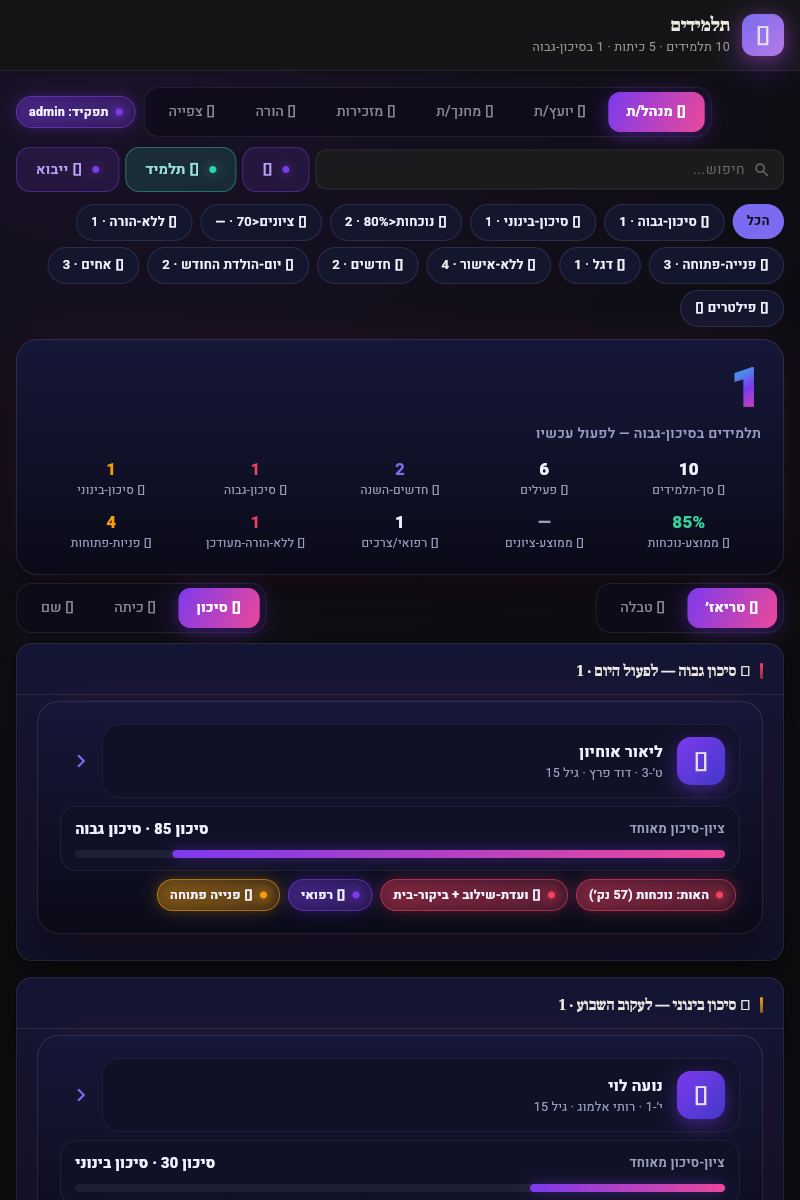
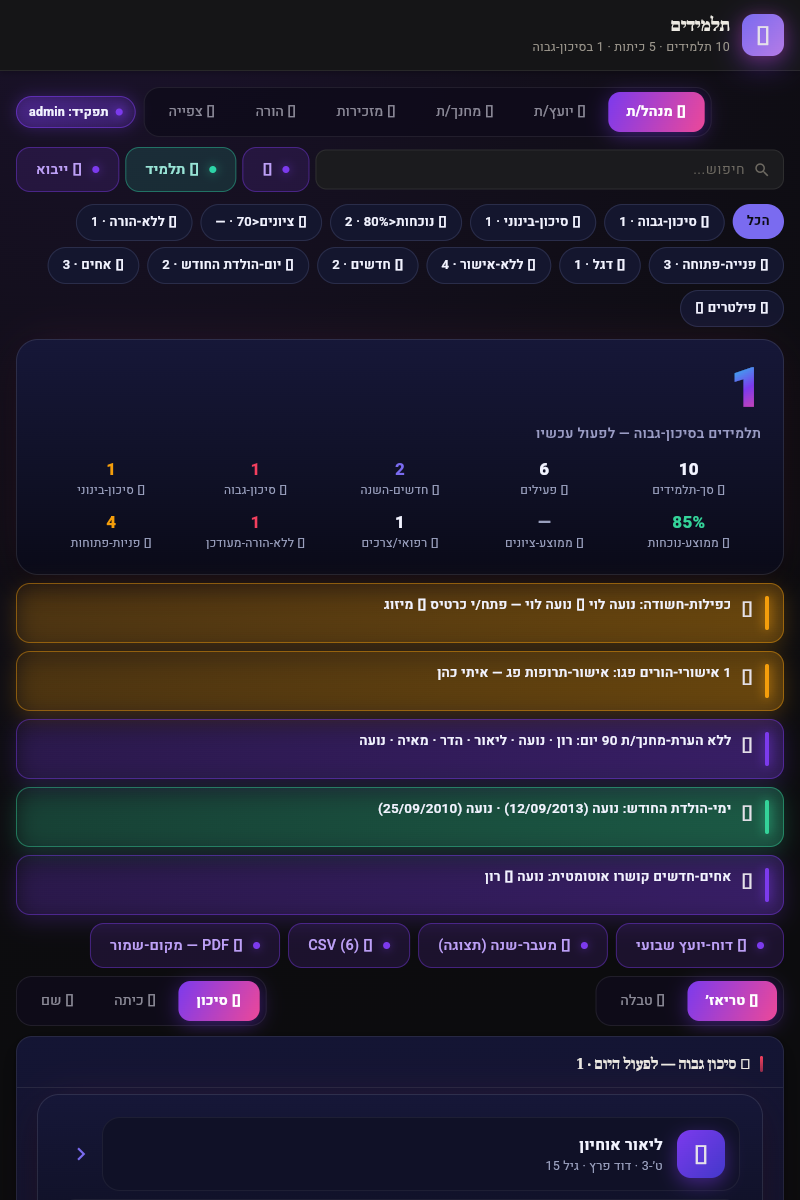
גל 6 · תלמידים · 11 אוטומציות-חכמות + אינטגרציות + ייצוא (23-ג) — AlertBanner⊕NeonBars⊕BareStat · findDuplicateGroups⊕mergeFamilies⊕cockpitAtRisk⊕supScoreBins⊕taskOverdue⊕toCsv⊕csvEscape⊕exportAllowed
קפיצת-סיכון (אותו מנוע על דאטה-עד-cutoff, ≥15) · זיהוי-כפולים (שם+לידה · טלפון-ילד) + מיזוג · אישורים-פגים · ללא-הערת-מחנך 90 יום
(cockpitAtRisk ∪ ללא-הערה-מתוארכת) · ימי-הולדת · אחים-חדשים⇒קישור-אוטו · השוואת-שכבה (percentile + 10 דליים) · דוח-יועץ שבועי ·
מעבר-שנה (תצוגה) · CSV (BOM+חסימת-הזרקה, הרשאה) · PDF=מקום-שמור · גבייה⇒דגל-חוב=מקום-שמור. באג-אמת מבדיקת-widget: רשימות-seed
הוסקו כ-Map<String,Object> ⇒ TypeError במיזוג — טיפוס מפורש.

Claude-Session: https://claude.ai/code/session_01TxEB6UJGSPpcuzhChbuNDK

Protocol-Ran: de728b952c17193c

diff --git a/new/dart-gen-bs/schoolos_students.dart b/new/dart-gen-bs/schoolos_students.dart
@@ -56,6 +56,14 @@ import '../dart-maor/num-match.dart'; // סף-מספרי ('0-79' · '80+') (מד
 import '../dart-maor/norm-phone.dart'; // נרמול-טלפון לחיפוש-הורה
 import '../dart-maor/role-of.dart'; // הרשאות: תפקיד-לפי-מייל admin/teacher/staff (מדף)
 import '../dart-maor/can-granted-action.dart'; // הרשאות: גידור-פעולה פר-מפתח (מדף)
+import '../dart-maor/find-duplicate-groups.dart'; // אוטומציה: זיהוי-כפולים (union-find על טלפון/מפתח-שם)
+import '../dart-maor/merge-families.dart'; // פעולה: מיזוג-כפולים (keeper⊕losers ⇒ רשומה ממוזגת)
+import '../dart-maor/norm-name.dart'; // מפתח-שם מנורמל לכפולים
+import '../dart-maor/cockpit-at-risk.dart'; // אוטומציה: "שקטים" N ימים (ללא הערת-מחנך 90 יום)
+import '../dart-maor/sup-score-bins.dart'; // השוואת-שכבה: התפלגות-ציונים ל-10 דליים (percentile)
+import '../dart-maor/to-csv.dart'; // ייצוא: שורות⇒CSV+BOM (מדף)
+import '../dart-maor/csv-escape.dart'; // ייצוא: הגנת-תא (חוסם CSV-injection) (מדף)
+import '../dart-maor/export-allowed.dart'; // ייצוא: שער-יציאת-מידע (מדף)
 
 const _acc = DsTokens.accent;
 // פיגמנטים מוזרקים לאטומי-מדף טהורים (חוק-6: צבע=הצבה, לא ציור)
@@ -88,14 +96,14 @@ class _StuData {
       [for (final d in days) {'date': '$ym-${d.toString().padLeft(2, '0')}', 'reason': reason, 'justified': justified, 'noshow': noshow}];
 
   static Map<String, dynamic> seed() => {
-        'teachers': [
+        'teachers': <Map<String, dynamic>>[
           {'id': 't1', 'name': 'רותי אלמוג', 'phone': '0521110001', 'email': 'ruti@school'},
           {'id': 't2', 'name': 'דוד פרץ', 'phone': '0521110002', 'email': 'david@school'},
           {'id': 't3', 'name': 'מיכל שרון', 'phone': '0521110003', 'email': 'michal@school'},
           {'id': 't4', 'name': 'יוסי כהן', 'phone': '0521110004', 'email': 'yossi@school'},
         ],
         // כיתת-חינוך = Course (teacherId · year · start/end · gradeMin/Max) — מקור: Course
-        'courses': [
+        'courses': <Map<String, dynamic>>[
           {'id': 'c-i1', 'name': 'י׳-1 · כיתת-חינוך', 'teacherId': 't1', 'start': '2026-09-01', 'end': '2027-06-20', 'year': '2026/27', 'gradeMin': 'י', 'gradeMax': 'י', 'cat': 'חינוך'},
           {'id': 'c-i2', 'name': 'י׳-2 · כיתת-חינוך', 'teacherId': 't4', 'start': '2026-09-01', 'end': '2027-06-20', 'year': '2026/27', 'gradeMin': 'י', 'gradeMax': 'י', 'cat': 'חינוך'},
           {'id': 'c-t3', 'name': 'ט׳-3 · כיתת-חינוך', 'teacherId': 't2', 'start': '2026-09-01', 'end': '2027-06-20', 'year': '2026/27', 'gradeMin': 'ט', 'gradeMax': 'ט', 'cat': 'חינוך'},
@@ -106,7 +114,7 @@ class _StuData {
           {'id': 'c-robot', 'name': 'חוג רובוטיקה', 'teacherId': 't2', 'start': '2026-09-01', 'end': '2027-06-20', 'year': '2026/27', 'cat': 'חוג'},
         ],
         // משפחה = Family (schema-fields) · ילד = Member. שדות-אמת בלבד.
-        'families': [
+        'families': <Map<String, dynamic>>[
           {'id': 'f1', 'name': 'שמעוני', 'father': 'אבי', 'mother': 'דנה', 'phone': '0528811223', 'phone2': '0528811224', 'email': '', 'city': 'חולון', 'address': 'הבנים 12', 'language': 'עברית', 'maritalStatus': 'נשואים', 'status': 'active', 'tzedaka': '', 'discount': '', 'notes': '', 'createdAt': '2024-08-20',
             'docs': [{'id': 'd1', 'name': 'טופס-רישום-2024.pdf', 'addedAt': '2024-08-20'}, {'id': 'd2', 'name': 'אישור-מדיה-חתום.pdf', 'addedAt': '2025-09-02'}], 'cred': {'score': 0, 'log': []},
             'members': [
@@ -152,7 +160,7 @@ class _StuData {
             ]},
         ],
         // רישום = Enrollment: memberId · courseId · status(active/paused/ended/wait) · presents[] · absences[] · enrolledAt · endedAt · renewedToId
-        'enrollments': [
+        'enrollments': <Map<String, dynamic>>[
           {'id': 'e1', 'memberId': 'm1', 'courseId': 'c-i1', 'status': 'active', 'enrolledAt': '2025-09-01', 'group': '', 'note': '',
             'presents': [..._d('2026-05', [3, 4, 5, 6, 10, 11, 12, 13, 17, 18, 19, 20, 24, 25, 26, 27, 31]), ..._d('2026-06', [1, 2, 3, 7, 8, 9, 10, 14, 15, 16, 17, 21, 22, 23]), ..._d('2026-09', [1, 2])],
             'absences': [..._abs('2026-06', [4, 18, 24], reason: 'ללא-סיבה'), ..._abs('2026-09', [3], noshow: true)]},
@@ -186,7 +194,7 @@ class _StuData {
             'presents': [..._d('2026-05', [3, 4, 5, 6, 10, 11, 12, 13, 17, 18, 19, 20, 24, 25, 26, 27, 31]), ..._d('2026-06', [1, 2, 3, 7, 8, 9, 10, 14, 15, 16, 17, 21, 22, 23])], 'absences': [..._abs('2026-06', [4, 18, 24])]},
         ],
         // פניות/משימות = WorkTask: assignee · by · title · ref{kind,id} · pri · due · createdAt · doneAt · note
-        'tasks': [
+        'tasks': <Map<String, dynamic>>[
           {'id': 'k1', 'assignee': 'counselor@school', 'by': 'ruti@school', 'title': 'פנייה ליועצת: ליאור אוחיון — היעדרויות', 'ref': {'kind': 'family', 'id': 'f2', 'memberId': 'm3'}, 'pri': 1, 'due': '2026-09-01', 'createdAt': '2026-06-20', 'doneAt': '', 'note': 'לא נוצר קשר עם הבית'},
           {'id': 'k2', 'assignee': 'office@school', 'by': 'ruti@school', 'title': 'אישור-טיולים פג — רון שמעוני', 'ref': {'kind': 'family', 'id': 'f1', 'memberId': 'm1', 'consent': 'trips'}, 'pri': 2, 'due': '2026-09-10', 'createdAt': '2026-08-20', 'doneAt': '', 'note': ''},
           {'id': 'k3', 'assignee': 'office@school', 'by': 'michal@school', 'title': 'אישור-תרופות פג — איתי כהן', 'ref': {'kind': 'family', 'id': 'f8', 'memberId': 'm10', 'consent': 'meds'}, 'pri': 1, 'due': '2026-08-30', 'createdAt': '2026-08-01', 'doneAt': '', 'note': ''},
@@ -194,14 +202,14 @@ class _StuData {
           {'id': 'k5', 'assignee': 'counselor@school', 'by': 'michal@school', 'title': 'פנייה ליועצת: הדר נחום — אין קשר עם ההורים', 'ref': {'kind': 'family', 'id': 'f3', 'memberId': 'm4'}, 'pri': 2, 'due': '2026-06-30', 'createdAt': '2026-06-10', 'doneAt': '2026-06-28', 'note': 'נסגר — הושג קשר דרך הסבתא'},
         ],
         // אירועים = OrgEvent (famId · date · title · type · done) — ציר-זמן-תלמיד
-        'events': [
+        'events': <Map<String, dynamic>>[
           {'id': 'v1', 'title': 'שיחת-מחנכת עם ההורים', 'date': '2026-06-22', 'time': '17:00', 'type': 'meeting', 'famId': 'f2', 'priority': 'high', 'done': true},
           {'id': 'v2', 'title': 'ועדת-שילוב', 'date': '2026-09-09', 'time': '13:00', 'type': 'meeting', 'famId': 'f2', 'priority': 'high', 'done': false},
           {'id': 'v3', 'title': 'שיחת-הכרות משפחה חדשה', 'date': '2026-09-08', 'time': '16:30', 'type': 'meeting', 'famId': 'f5', 'priority': 'normal', 'done': false},
           {'id': 'v4', 'title': 'יום-הורים', 'date': '2026-06-15', 'time': '18:00', 'type': 'meeting', 'famId': 'f1', 'priority': 'normal', 'done': true},
         ],
         // אודיט = AuditEntry {at, who, act, what} — טבעת-אודיט (pullAuditRing/pushAuditRing = תפר-ההתמדה, כאן בזיכרון)
-        'audit': [
+        'audit': <Map<String, dynamic>>[
           {'at': '2026-09-01T08:10', 'who': 'office@school', 'act': 'update', 'what': 'm7 · רישום לכיתה י׳-1'},
           {'at': '2026-09-02T09:30', 'who': 'office@school', 'act': 'import', 'what': 'f6 · ייבוא-CSV (3 שורות)'},
           {'at': '2026-08-31T12:00', 'who': 'ruti@school', 'act': 'note', 'what': 'm1 · הערת-מחנכת'},
@@ -277,10 +285,10 @@ class _StuData {
   // ─── נוכחות (מקור: Enrollment.presents/absences ⊕ enrollSummary מהמדף) ───
   static const _enrollT = {'k1': 'פעיל', 'k2': 'מוקפא', 'k3': 'הסתיים', 'k4': 'המתנה'};
   static Map<String, dynamic> summary(Map<String, dynamic> e) => enrollSummary(e, (e) => 0, (e) => 0, _enrollT); // payBal/paidOf = שקעים לא-רלוונטיים (0)
-  static List<String> presentsOf(Map<String, dynamic> s) => [for (final e in enrollmentsOf(s)) ...((e['presents'] as List?) ?? const []).cast<String>()];
-  static List<Map<String, dynamic>> absencesOf(Map<String, dynamic> s) => [for (final e in enrollmentsOf(s)) ...((e['absences'] as List?) ?? const []).cast<Map<String, dynamic>>()];
-  static int presents(Map<String, dynamic> s) => grandTotal(enrollmentsOf(s), (e) => summary(e as Map<String, dynamic>)['presents'] as int).toInt();
-  static int absences(Map<String, dynamic> s) => grandTotal(enrollmentsOf(s), (e) => summary(e as Map<String, dynamic>)['absences'] as int).toInt();
+  static List<String> presentsOf(Map<String, dynamic> s) => [for (final e in enrollmentsOf(s)) for (final d in ((e['presents'] as List?) ?? const []).cast<String>()) if (_cutoff.isEmpty || d.compareTo(_cutoff) <= 0) d];
+  static List<Map<String, dynamic>> absencesOf(Map<String, dynamic> s) => [for (final e in enrollmentsOf(s)) for (final a in ((e['absences'] as List?) ?? const []).cast<Map<String, dynamic>>()) if (_cutoff.isEmpty || '${a['date']}'.compareTo(_cutoff) <= 0) a];
+  static int presents(Map<String, dynamic> s) => _cutoff.isEmpty ? grandTotal(enrollmentsOf(s), (e) => summary(e as Map<String, dynamic>)['presents'] as int).toInt() : presentsOf(s).length;
+  static int absences(Map<String, dynamic> s) => _cutoff.isEmpty ? grandTotal(enrollmentsOf(s), (e) => summary(e as Map<String, dynamic>)['absences'] as int).toInt() : absencesOf(s).length;
   static int noshow(Map<String, dynamic> s) => grandTotal(enrollmentsOf(s), (e) => summary(e as Map<String, dynamic>)['noshow'] as int).toInt();
   static double? attendance(Map<String, dynamic> s) { // יחס-נוכחות 0..1 (null = אין נתון)
     final p = presents(s), a = absences(s);
@@ -718,6 +726,75 @@ class _StuData {
   }
   static const encryptionNote = 'הצפנה-במנוחה = תפר-ההתמדה (encryptDoc/isEncrypted/pushAuditRing) — מקום-שמור: מאיר כשמחברים אחסון';
 
+  // ═══ אוטומציות-חכמות (הכרעה 23-ג · פרואקטיבי): המערכת מתריעה לפני שדבר נשמט — כולן מנועי-מדף/שדות-אמת ═══
+  // 1. קפיצת-סיכון: ציון-היום מול ציון-לפני-30-יום (אותו מנוע על תת-הדאטה עד cutoff) — הפרש ≥15 = התרעה
+  static String _cutoff = '';
+  static int riskAt(Map<String, dynamic> s, String cutoffIso) {
+    _cutoff = cutoffIso;
+    try { return risk(s); } finally { _cutoff = ''; }
+  }
+  static List<Map<String, dynamic>> get riskJumps => [
+        for (final s in active) if (risk(s) - riskAt(s, monthAgo) >= 15) {'s': s, 'now': risk(s), 'prev': riskAt(s, monthAgo)},
+      ];
+  static String get monthAgo => '${today.substring(0, 4)}-${(int.parse(today.substring(5, 7)) - 1).clamp(1, 12).toString().padLeft(2, '0')}-${today.substring(8)}';
+  // 2. זיהוי-כפולים (findDuplicateGroups): מפתח-שם = שם-פרטי+משפחה+לידה מנורמל · טלפון-ילד/ה (טלפון-משפחה משותף לאחים ⇒ לא ציר)
+  static List<List<String>> get duplicateGroups => findDuplicateGroups(
+        students, (s) => [if ('${s['phone'] ?? ''}'.isNotEmpty) normPhone(s['phone'] as String)],
+        (s) => '${normName(s['name'], norm)}|${s['birth'] ?? ''}'.replaceAll(RegExp(r'\|$'), '') == normName(s['name'], norm) ? '' : '${normName(s['name'], norm)}|${s['birth']}');
+  static bool isDupSuspect(Map<String, dynamic> s) => duplicateGroups.any((g) => g.length > 1 && g.contains(s['id']));
+  static List<Map<String, dynamic>> dupPeers(Map<String, dynamic> s) => [for (final g in duplicateGroups) if (g.contains(s['id'])) for (final id in g) if (id != s['id']) byId(id)!];
+  // מיזוג: mergeFamilies(keeper, losers) ⇒ רשומת-משפחה ממוזגת מחליפה את keeper; losers מוסרים; רישומי-ה-loser מועברים ל-keeper-member
+  static void mergeDuplicate(Map<String, dynamic> keep, Map<String, dynamic> lose, String who) {
+    final fk = fam(keep), fl = fam(lose);
+    if (fk['id'] != fl['id']) {
+      final merged = mergeFamilies(fk, [fl], (p) => normPhone(p), (xs) { final seen = <dynamic>{}; return [for (final x in xs) if (seen.add((x as Map)['id'])) x]; }, term: (k) => k == 'mvzg' ? 'מוזג: ' : k);
+      merged['members'] = [for (final m in (merged['members'] as List)) if ((m as Map)['id'] != lose['id']) m]; // הכפיל עצמו לא נשמר
+      final fams = db['families'] as List;
+      fams[fams.indexOf(fk)] = merged; fams.remove(fl);
+    } else { (fk['members'] as List).removeWhere((m) => (m as Map)['id'] == lose['id']); }
+    for (final e in (db['enrollments'] as List).cast<Map<String, dynamic>>()) { if (e['memberId'] == lose['id']) e['memberId'] = keep['id']; }
+    _cache = null;
+    log(who, 'merge', '${keep['id']} · מוזג ${lose['id']} (${lose['name']})');
+  }
+  // 3. ימי-הולדת החודש · 4. אישורים-פגים (taskOverdue על משימות-אישור) · 5. אחים-חדשים⇒קישור-אוטו (Family.members) · 6. ללא-הערת-מחנך 90 יום
+  static List<Map<String, dynamic>> get birthdays => active.where(birthdayThisMonth).toList();
+  static List<Map<String, dynamic>> get expiredConsents => [for (final t in tasks()) if ((t['ref'] as Map?)?['consent'] != null && '${t['doneAt'] ?? ''}'.isEmpty && taskOverdue(t, today)) t];
+  static List<Map<String, dynamic>> get newSiblings => [for (final s in active) if (isNew(s) && siblings(s).isNotEmpty) s]; // חדש/ה עם אחים במוסד ⇒ הקישור כבר אוטומטי (אותה Family)
+  static const noteSilentDays = 90;
+  static List<Map<String, dynamic>> get noNote90 { // cockpitAtRisk (שקטים ≥N ימים מהערה-אחרונה) ∪ תלמידים בלי שום הערה מתוארכת
+    final dated = active.where((s) => lastNoteDate(s) != null).toList();
+    final silent = cockpitAtRisk(dated, today, noteSilentDays, (m) => notes(m.cast<String, dynamic>()).length, (m) => lastNoteDate(m.cast<String, dynamic>()) ?? '', (iso, t) => cockpitDaysSince(iso, t)).cast<Map<String, dynamic>>();
+    return [...silent, ...active.where((s) => lastNoteDate(s) == null)];
+  }
+  // 7. השוואת-שכבה (percentile): התפלגות-סיכון בשכבה ל-10 דליים (supScoreBins · ציון×10 ⇒ דלי=עשירייה) + אחוזון = חלק-הנמוכים-ממני
+  static List<Map<String, dynamic>> cohort(Map<String, dynamic> s) => active.where((o) => o['grade'] == s['grade']).toList();
+  static List<int> cohortBins(Map<String, dynamic> s) => supScoreBins(cohort(s), supScore: (o, _) => risk(o as Map<String, dynamic>) * 10);
+  static int percentile(Map<String, dynamic> s) { final c = cohort(s); if (c.length < 2) return 50; final me = risk(s); return (c.where((o) => risk(o) < me).length * 100 / (c.length - 1)).round().clamp(0, 100); }
+  // 8. דוח-יועץ שבועי (טקסט מהאותות): סיכון-גבוה · קפיצות · פניות-פתוחות · ללא-הורה · אישורים-פגים
+  static String weeklyReport() => [
+        'דוח-יועץ/ת שבועי · ${fmt(today)}', 'תלמידים פעילים: ${active.length} · סיכון-גבוה: $highN · בינוני: $midN',
+        'קפיצות-סיכון (30 יום): ${riskJumps.map((j) => '${(j['s'] as Map)['name']} ${j['prev']}→${j['now']}').join(', ')}'.replaceAll(': ,', ': —'),
+        'פניות-פתוחות: $openTicketsN · ללא-הורה-מעודכן: $noParentN · אישורים-פגים: ${expiredConsents.length}',
+        'ללא-הערת-מחנך/ת $noteSilentDays יום: ${noNote90.map((s) => s['name']).join(', ')}',
+        'כפילויות-חשודות: ${duplicateGroups.where((g) => g.length > 1).length}', 'ימי-הולדת החודש: ${birthdays.map((s) => s['first']).join(', ')}',
+        '', 'פעולות מומלצות:', for (final s in active.where((s) => band(s) > 0)) '· ${s['name']} (${risk(s)}): ${action(s)}',
+      ].join('\n');
+  // 9. מעבר-שנה (העברת-כיתות מרוכזת): כל תלמיד/ה פעיל/ה ⇒ כיתת-השכבה-הבאה (gradeOrder); יב ⇒ בוגר. תצוגה-מקדימה לפני ביצוע.
+  static List<String> yearRolloverPreview() => [
+        for (final s in active)
+          () { final gi = gradeIdx(s); if (gi < 0) return '${s['name']}: כיתה לא-ידועה'; if (gi >= gradeOrder.length - 1) return '${s['name']}: יב ⇒ בוגר'; return '${s['name']}: ${gradeOrder[gi]} ⇒ ${gradeOrder[gi + 1]}'; }(),
+      ];
+  // אינטגרציות: נוכחות⇒סיכון (signalDefs) · ציונים⇒סיכון (מקום-שמור grades) · גבייה⇒דגל-חוב (מקום-שמור s.feeDebt, רק-הנהלה) · הורים⇒קשר (Family) ·
+  //   יומן⇒אירועים (OrgEvent.famId) · לוח-הנהלה⇒מונים (highN/midN/openTicketsN חשופים).
+  static bool feeDebt(Map<String, dynamic> s) => s['feeDebt'] == true; // מקום-שמור: מאיר כשמודול-הגבייה כותב
+
+  // ═══ ייצוא (23-ג) = SoftButton ⊕ toCsv ⊕ csvEscape ⊕ exportAllowed ⊕ הרשאה — שורות = עמודות-החוזה הנראות (ת״ז מוסתרת אלא-אם מוגן-מותר) ═══
+  static String csvOf(List<Map<String, dynamic>> rows) {
+    final cols = [for (final c in columnDefs) if (colShown(c, rows) && c['key'] != 'photo') c];
+    return toCsv([[for (final c in cols) c['label']], for (final s in rows) [for (final c in cols) cell(c, s)]], csvEscape) as String;
+  }
+  static bool exportOk(int role) => exportAllowed(false) && can(role, 'stu.export');
+
   static bool colShown(Map<String, Object?> c, List<Map<String, dynamic>> rows) =>
       c['get'] != null || rows.any((s) => s[c['key']] != null && '${s[c['key']]}'.trim().isNotEmpty);
   static String cell(Map<String, Object?> c, Map<String, dynamic> s) {
@@ -832,6 +909,21 @@ class _StudentsScreenState extends State<StudentsScreen> {
           ]),
         ),
         _gap(8),
+        // מרכז-אוטומציות (23-ג · פרואקטיבי): קפיצת-סיכון · כפולים · אישורים-פגים · ללא-הערה-90 · ימי-הולדת · אחים-חדשים — AlertBanner פר-אות
+        if (_StuData.riskJumps.isNotEmpty) ...[AlertBanner(glyph: '📈', tone: 2, message: 'קפיצת-סיכון (30 יום): ${_StuData.riskJumps.map((j) => '${(j['s'] as Map)['name']} ${j['prev']}→${j['now']}').join(' · ')}'), _gap(8)],
+        if (_StuData.duplicateGroups.any((g) => g.length > 1) && _can('stu.merge')) ...[AlertBanner(glyph: '👯', tone: 3, message: 'כפילות-חשודה: ${_StuData.duplicateGroups.where((g) => g.length > 1).map((g) => g.map((id) => _StuData.byId(id)?['name'] ?? id).join(' ≈ ')).join(' · ')} — פתח/י כרטיס ⇒ מיזוג'), _gap(8)],
+        if (_StuData.expiredConsents.isNotEmpty) ...[AlertBanner(glyph: '📄', tone: 3, message: '${_StuData.expiredConsents.length} אישורי-הורים פגו: ${_StuData.expiredConsents.map((t) => t['title']).join(' · ')}'), _gap(8)],
+        if (_StuData.noNote90.isNotEmpty && !_StuData.isParent(_role)) ...[AlertBanner(glyph: '📝', tone: 0, message: 'ללא הערת-מחנך/ת ${_StuData.noteSilentDays} יום: ${_StuData.scoped(_role, _StuData.noNote90).map((s) => s['first']).join(' · ')}'), _gap(8)],
+        if (_StuData.birthdays.isNotEmpty) ...[AlertBanner(glyph: '🎂', tone: 1, message: 'ימי-הולדת החודש: ${_StuData.scoped(_role, _StuData.birthdays).map((s) => '${s['first']} (${_StuData.fmt(s['birth'] as String?)})').join(' · ')}'), _gap(8)],
+        if (_StuData.newSiblings.isNotEmpty && !_StuData.isParent(_role)) ...[AlertBanner(glyph: '👪', tone: 0, message: 'אחים-חדשים קושרו אוטומטית: ${_StuData.newSiblings.map((s) => '${s['first']} ↔ ${_StuData.siblings(s).map((o) => o['first']).join(',')}').join(' · ')}'), _gap(8)],
+        // דוח-יועץ · מעבר-שנה · ייצוא — כלים-מרוכזים (מגודרים)
+        Wrap(spacing: 8, runSpacing: 6, children: [
+          if (_can('stu.ticket') || _StuData.roleName(_role) == 'admin') SoftButton(label: '🧭 דוח-יועץ שבועי', tone: 0, onTap: () => _showText(context, 'דוח-יועץ/ת שבועי', _StuData.weeklyReport())),
+          if (_StuData.roleName(_role) == 'admin') SoftButton(label: '🗓 מעבר-שנה (תצוגה)', tone: 0, onTap: () => _showText(context, 'מעבר-שנה · העברת-כיתות מרוכזת (תצוגה-מקדימה)', _StuData.yearRolloverPreview().join('\n'))),
+          if (_StuData.exportOk(_role)) SoftButton(label: '⬇ CSV (${visible.length})', tone: 0, onTap: () => _showText(context, 'ייצוא CSV · ${visible.length} תלמידים (BOM + חסימת-הזרקה)', _StuData.csvOf(visible))),
+          if (_StuData.exportOk(_role)) SoftButton(label: '⬇ PDF — מקום-שמור', tone: 0, onTap: () => _showText(context, 'ייצוא PDF', 'מקום-שמור: אין מנוע-PDF במדף (§20-ג) — יאיר כשיתווסף; עד אז: הדפס-כרטיס (טקסט) + CSV.')),
+        ]),
+        _gap(8),
         // בורר-מבט (🎯 טריאז' · 📋 טבלה) + בורר-דירוג (סיכון · כיתה · שם) — ארגון = פעולת-יסוד עם אטום משלה
         Row(children: [
           SegmentedSwitch(items: const ['🎯 טריאז׳', '📋 טבלה'], selected: _mode, onSelect: (i) => setState(() => _mode = i)),
@@ -895,6 +987,8 @@ class _StudentsScreenState extends State<StudentsScreen> {
               if (_StuData.hasOpenTicket(s)) StatusChip(label: '📨 פנייה פתוחה', tone: 3),
               if (_StuData.parentMissing(s)) const StatusChip(label: '📵 ללא-הורה-מעודכן', tone: 2),
               if (_StuData.isNew(s)) const StatusChip(label: '🆕 חדש/ה השנה', tone: 0),
+              if (_StuData.isDupSuspect(s)) const StatusChip(label: '👯 כפילות-חשודה', tone: 3),
+              if (_StuData.feeDebt(s) && _StuData.roleName(_role) == 'admin') const StatusChip(label: '💳 חוב-גבייה', tone: 2), // מקום-שמור (גבייה⇒דגל, רק-הנהלה)
             ]),
           ),
         ]),
@@ -992,6 +1086,14 @@ class _StudentsScreenState extends State<StudentsScreen> {
             BareStat(value: t90['dir'] == 'flat' ? '→' : '${t90['pct'] > 0 ? '+' : ''}${t90['pct']}%', label: 'מגמה-90 (נוכחות)', inkColor: t90['dir'] == 'down' ? _danger : _ok, mutedColor: _muted),
             BareStat(value: '${_StuData.presentsThisMonth(s)}/${_StuData.presentsThisMonth(s) + _StuData.absencesThisMonth(s)}', label: 'נוכחות-החודש', inkColor: _ink, mutedColor: _muted),
           ]),
+          _gap(10),
+          // השוואת-שכבה (percentile): התפלגות-הסיכון בשכבה (supScoreBins ⇒ NeonBars) + אחוזון-התלמיד
+          _h('השוואת-שכבה ${_StuData.level(s)} · ${_StuData.cohort(s).length} תלמידים'),
+          Row(children: [
+            BareStat(value: '${_StuData.percentile(s)}', label: 'אחוזון-סיכון בשכבה (גבוה=חמור)', inkColor: _StuData.percentile(s) >= 75 ? _danger : _ink, mutedColor: _muted),
+            BareStat(value: '${(grandTotal(_StuData.cohort(s), (o) => _StuData.risk(o as Map<String, dynamic>)) / (_StuData.cohort(s).isEmpty ? 1 : _StuData.cohort(s).length)).round()}', label: 'ממוצע-סיכון בשכבה', inkColor: _ink, mutedColor: _muted),
+          ]),
+          if (_StuData.cohort(s).length >= 2) NeonBars(labels: const ['0-9', '10-19', '20-29', '30-39', '40-49', '50-59', '60-69', '70-79', '80-89', '90+'], values: [for (final b in _StuData.cohortBins(s)) b.toDouble()], tone: 0),
           _gap(10),
           _h('הערות אחרונות · ${ns.length}'),
           if (ns.isEmpty) const EmptyState(glyph: '📝', message: 'אין הערות-מחנך/ת') else for (final n in ns.take(3)) TimelineItem(title: '📝 ${n['by']}', time: '${n['date']}'.isEmpty ? 'ללא-תאריך' : _StuData.fmt('${n['date']}'), body: '${n['text']}'),
@@ -1108,6 +1210,7 @@ class _StudentsScreenState extends State<StudentsScreen> {
       if (_can('stu.meeting')) SoftButton(label: '📅 הזמן-לשיחה', tone: 0, onTap: () => _prompt(ctx, 'הזמנה לשיחה', 'תאריך (YYYY-MM-DD)', (v) => act(() => _StuData.inviteMeeting(s, 'שיחה עם הורי ${s['first']}', v, _who)))),
       if (_can('stu.doc')) SoftButton(label: '📎 צרף-מסמך', tone: 0, onTap: () => _prompt(ctx, 'צרף-מסמך', 'שם המסמך', (v) => act(() => _StuData.attachDoc(s, v, _who)))),
       SoftButton(label: '🖨 הדפס-כרטיס', tone: 0, onTap: () => _showText(ctx, 'כרטיס-תלמיד להדפסה', _StuData.card(s))),
+      if (_can('stu.merge')) for (final d in _StuData.dupPeers(s)) SoftButton(label: '👯 מזג ${d['id']} לכאן', tone: 3, onTap: () => act(() => _StuData.mergeDuplicate(s, d, _who))),
       if (_can('stu.consent')) SoftButton(label: '📷 אישור-מדיה: ${s['mPhotos'] == true ? 'בטל' : 'סמן'}', tone: 0, onTap: () => act(() => _StuData.toggleConsent(s, 'mPhotos', _who))),
       if (_can('stu.consent')) SoftButton(label: '🧳 בקש אישור-טיולים', tone: 0, onTap: () => act(() => _StuData.requestConsent(s, 'trips', _who))),
       if (_can('stu.ticket')) for (final t in _StuData.openTasksOf(s)) SoftButton(label: '✅ סגור פנייה ${t['id']}', tone: 1, onTap: () => act(() => _StuData.closeTicket(t, _who))), // תווית קצרה (גיליון ≤640px · נתפס בבדיקת-widget)
